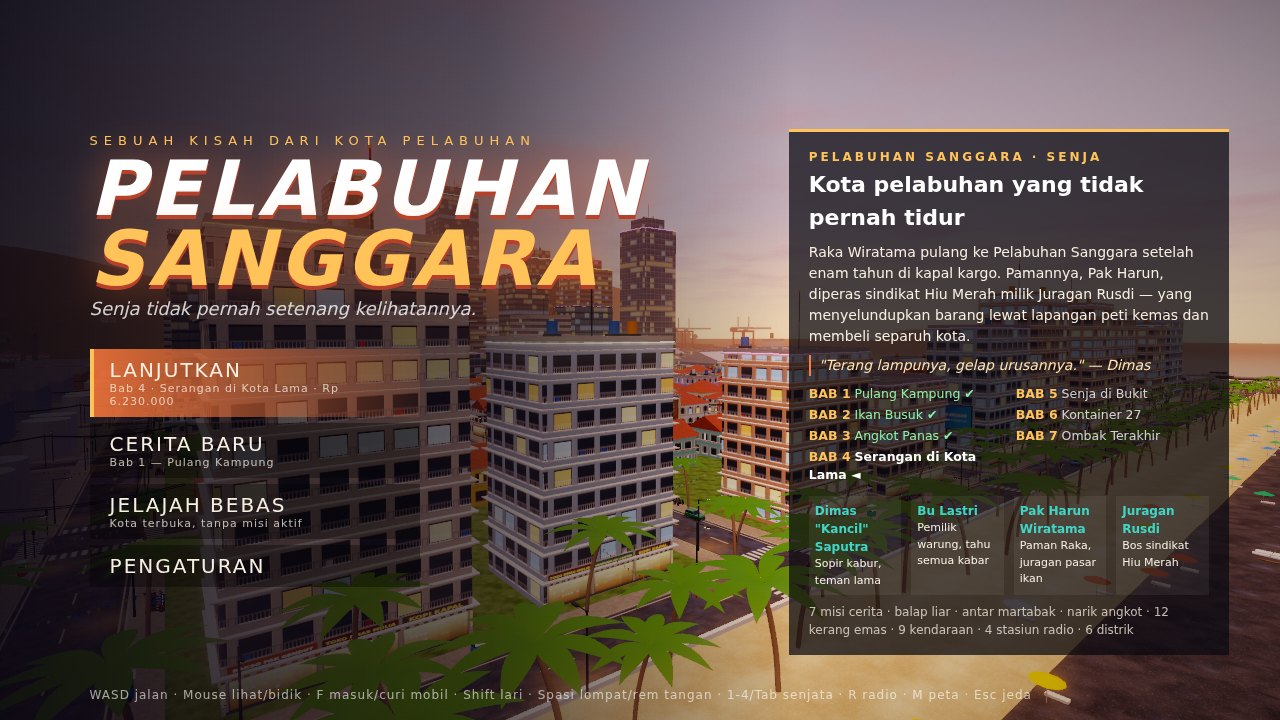
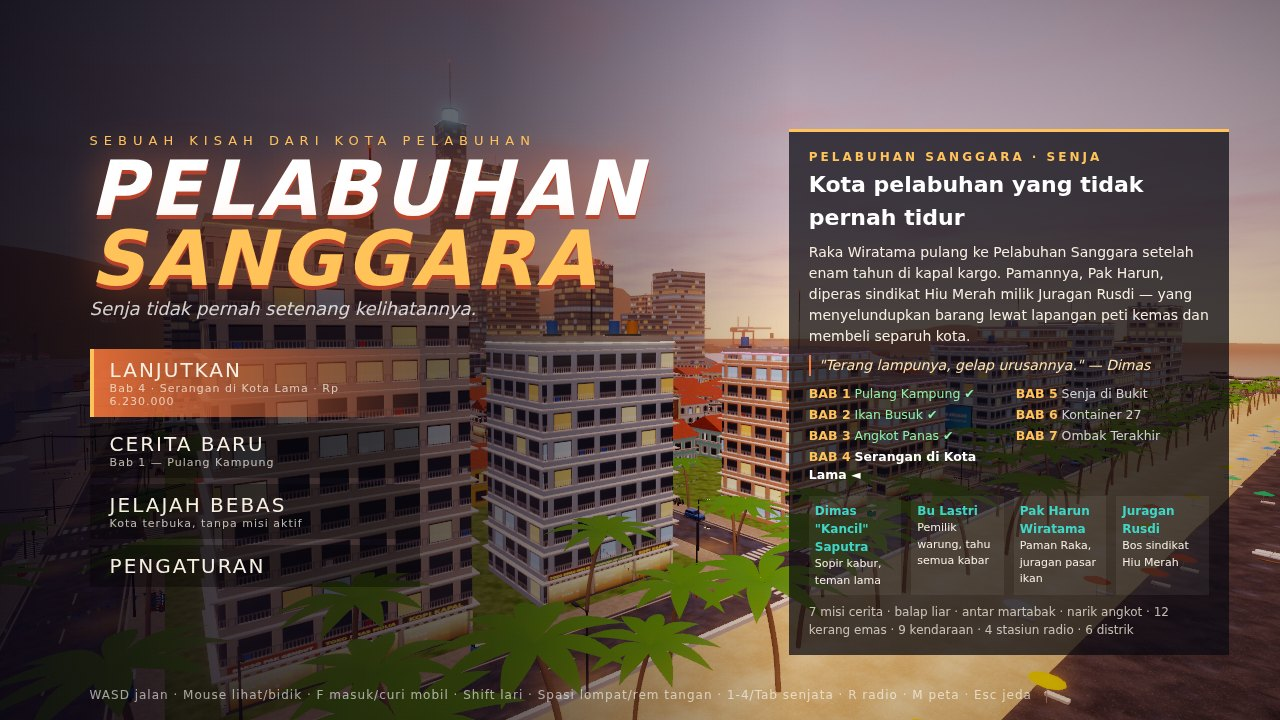
Menara Sanggara landmark tower; reshoot

Changed region(s): [[0.3438, 0.1528, 0.5625, 0.5806], [0.7188, 0.3972, 0.9062, 0.5806], [0.5312, 0.7028, 0.5625, 0.7333]]

diff --git a/game/src/city/landmarks.js b/game/src/city/landmarks.js
@@ -73,3 +73,34 @@ export function buildAlunAlun(block, collision) {
   const group = batch.build({ name: 'alun-alun' });
   return group;
 }
+
+// Menara Sanggara: the tallest tower in the city, stepping back in three tiers to a lit crown and
+// a spire with an aircraft beacon — the skyline's signature.
+export function buildMenaraSanggara(block, collision) {
+  const batch = new MeshBatcher();
+  const { cx, cz } = block;
+  const glass = assets.facadeMaterial('glass', 0);
+  const y0 = CURB_HEIGHT;
+  // Podium with shopfront glow.
+  put(batch, BOX, assets.material('concrete'), cx, y0 + 6, cz, 58, 12, 58);
+  batch.add(facadeBoxGeometry(56, 12, 56, 3.4, 4, 0.1, 0.25), assets.facadeMaterial('office', 1), new THREE.Matrix4().makeTranslation(cx, y0, cz));
+  const tiers = [[34, 90], [27, 60], [19, 40]];
+  let y = y0 + 12;
+  tiers.forEach(([w, h], i) => {
+    batch.add(facadeBoxGeometry(w, h, w, 3.4, 3.8, i * 0.3, 0), glass, new THREE.Matrix4().makeTranslation(cx, y, cz));
+    put(batch, BOX, assets.material('metal-dark'), cx, y + h, cz, w + 1.2, 1.2, w + 1.2);
+    const band = assets.emissive(i === 2 ? 0x6fe3ff : 0xffc070, 6);
+    for (const [ox, oz, sx, sz] of [[0, w / 2 + 0.7, w + 1.4, 0.2], [0, -w / 2 - 0.7, w + 1.4, 0.2], [w / 2 + 0.7, 0, 0.2, w + 1.4], [-w / 2 - 0.7, 0, 0.2, w + 1.4]]) {
+      put(batch, BOX, band, cx + ox, y + h + 0.2, cz + oz, sx, 0.35, sz);
+    }
+    y += h + 1.2;
+  });
+  // Crown lantern and spire.
+  put(batch, CYL, assets.emissive(0x9ff0ff, 4), cx, y + 5, cz, 12, 10, 12);
+  put(batch, CYL, assets.material('metal-dark'), cx, y + 10.5, cz, 13, 1, 13);
+  put(batch, CYL, assets.material('chrome'), cx, y + 30, cz, 0.9, 40, 0.9);
+  put(batch, new THREE.SphereGeometry(0.5, 8, 6), assets.emissive(0xff2a1a, 14), cx, y + 50.5, cz, 1.2, 1.2, 1.2);
+  collision.addCenteredBox(cx, cz, 58, 58, 12);
+  collision.addCenteredBox(cx, cz, 34, 34, y);
+  return batch.build({ name: 'menara-sanggara' });
+}

diff --git a/game/src/city/city-builder.js b/game/src/city/city-builder.js
@@ -8,10 +8,11 @@ import { buildBuildings } from './building-generator.js';
 import { buildStreetProps } from './street-props.js';
 import { buildCoast } from './coast-builder.js';
 import { buildHarbor } from './harbor-builder.js';
-import { buildAlunAlun } from './landmarks.js';
+import { buildAlunAlun, buildMenaraSanggara } from './landmarks.js';
 import { buildStreetLife } from './street-life-props.js';
 
 export const ALUN_ALUN_BLOCK = '2,6';
+export const MENARA_BLOCK = '4,2';
 
 function groundStyle(block) {
   if (`${block.i},${block.j}` === ALUN_ALUN_BLOCK) return 'grass';
@@ -31,7 +32,8 @@ export function buildCity(onProgress = () => {}) {
   onProgress(0.1, 'Jalan dan trotoar');
   root.add(buildRoads(groundStyle));
   onProgress(0.3, 'Gedung dan toko');
-  root.add(buildBuildings(BLOCKS, collision, new Set([ALUN_ALUN_BLOCK])));
+  root.add(buildBuildings(BLOCKS, collision, new Set([ALUN_ALUN_BLOCK, MENARA_BLOCK])));
+  root.add(buildMenaraSanggara(BLOCKS.find((b) => `${b.i},${b.j}` === MENARA_BLOCK), collision));
   onProgress(0.55, 'Alun-alun');
   const square = BLOCKS.find((b) => `${b.i},${b.j}` === ALUN_ALUN_BLOCK);
   root.add(buildAlunAlun(square, collision));
